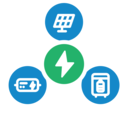
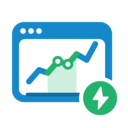
fix(homeassistant): polish Energy Node Companion for its first releases (#86)
hassfest rejects URLs in strings.json. The first mirror release of Energy
Node Companion (v0.0.1) failed its Validate run on the setup form's
example address. The address now comes from the config flow as
description_placeholders, and a test applies hassfest's own URL pattern
(RE_URL from script/hassfest/translations.py) to every text, so this is
caught here instead of in the mirror.

The companion also gets its own brand icon instead of the borrowed
energy_node_icons one: a dashboard window whose history gap is filled
in green, with the family's energy-node badge in the corner. The window
stands for the upcoming dashboard panel, the filled gap for the history
backfill. icon.png and icon@2x.png are rendered from icon.svg with the
commands in its header comment, like the sibling integrations.

---------

diff --git a/integrations/homeassistant/tests/test_history_setup.py b/integrations/homeassistant/tests/test_history_setup.py
@@ -1,5 +1,6 @@
 """Einrichtung: Config Flow und Start des Peers."""
 import json
+import re
 from pathlib import Path
 from unittest.mock import AsyncMock, patch
 
@@ -14,6 +15,12 @@ from custom_components.energy_node_companion.const import CONF_URL, CONF_VERIFY_
 BASE = Path(__file__).resolve().parents[1] / "custom_components/energy_node_companion"
 FLOW = "custom_components.energy_node_companion.config_flow.DashboardClient"
 GOOD = {"protocol": 1, "series": []}
+# RE_URL aus script/hassfest/translations.py (home-assistant/core). Ein Text,
+# auf den sie passt, laesst hassfest im Mirror scheitern.
+HASSFEST_URL = re.compile(
+    r"(((ftp|ftps|scp|http|https|mqtt|mqtts|socket|socks5):\/\/|www\.)"
+    r"[a-z0-9]+([\-\.]{1}[a-z0-9]+)*\.[a-z]{2,5}(:[0-9]{1,5})?(\/.*)?)",
+)
 
 
 @pytest.fixture(autouse=True)
@@ -173,3 +180,22 @@ def test_manifest():
     assert manifest["domain"] == DOMAIN
     assert manifest["requirements"] == []
     assert "recorder" in manifest["dependencies"]
+
+
+@pytest.mark.parametrize("name", ["strings.json", "translations/en.json", "translations/de.json"])
+def test_texts_carry_no_urls(name):
+    # hassfest lehnt URLs in Texten ab. Beispieladressen kommen als
+    # description_placeholders aus dem Config Flow.
+    def walk(node):
+        if isinstance(node, dict):
+            for value in node.values():
+                yield from walk(value)
+        elif isinstance(node, str):
+            yield node
+    texts = list(walk(json.loads((BASE / name).read_text())))
+    assert not [text for text in texts if HASSFEST_URL.search(text)]
+
+
+async def test_user_form_fills_the_example_address(hass):
+    result = await hass.config_entries.flow.async_init(DOMAIN, context={"source": "user"})
+    assert result["description_placeholders"]["example_url"].startswith("http://")

diff --git a/integrations/homeassistant/custom_components/energy_node_companion/config_flow.py b/integrations/homeassistant/custom_components/energy_node_companion/config_flow.py
@@ -20,6 +20,8 @@ from .const import CONF_URL, CONF_VERIFY_SSL, DOMAIN, PROTOCOL
 # fuer die Anmeldung ueber HTTPS weiterreichen muss.
 MQTT_DEVICE = ("mqtt", "energy_node")
 DEFAULT_PORT = 8080
+# hassfest verbietet URLs in strings.json, das Beispiel kommt als Platzhalter.
+EXAMPLE_URL = "http://energy-node.tail1234.ts.net:8080"
 
 SCHEMA = vol.Schema({
     vol.Required(CONF_URL): str,
@@ -79,7 +81,10 @@ class EnergyNodeConfigFlow(ConfigFlow, domain=DOMAIN):
             suggested = suggested_url(self.hass)
             suggestion = {CONF_URL: suggested} if suggested else {}
         return self.async_show_form(
-            step_id="user", data_schema=self.add_suggested_values_to_schema(SCHEMA, suggestion), errors=errors
+            step_id="user",
+            data_schema=self.add_suggested_values_to_schema(SCHEMA, suggestion),
+            errors=errors,
+            description_placeholders={"example_url": EXAMPLE_URL},
         )
 
     async def async_step_reconfigure(self, user_input: dict | None = None) -> ConfigFlowResult:

diff --git a/dashboard/CHANGELOG.md b/dashboard/CHANGELOG.md
@@ -5,11 +5,11 @@
 ### Features
 
 - The changelog pages open on the highlights, the switch at the top shows everything. (#84) (5cc1cfb)
+- **homeassistant:** add Energy Node Companion as a history exchange peer (#85) (5bd7f48)
 - **dashboard:** list the recorded series in the history exchange announcement (58c59a2)
 - **dashboard:** relay an optional sender label with history exchange offers (e4dc868)
 - **dashboard:** name the source of exchanged history rows in the settings (6a5d816)
 - **dashboard:** link the HA device to the node's Tailscale address (7c6d6ab)
-- **homeassistant:** add Energy Node Companion as a history exchange peer (#85)
 - **dashboard:** switch the versions page between highlights and everything (25b7c01)
 
 ### Documentation
